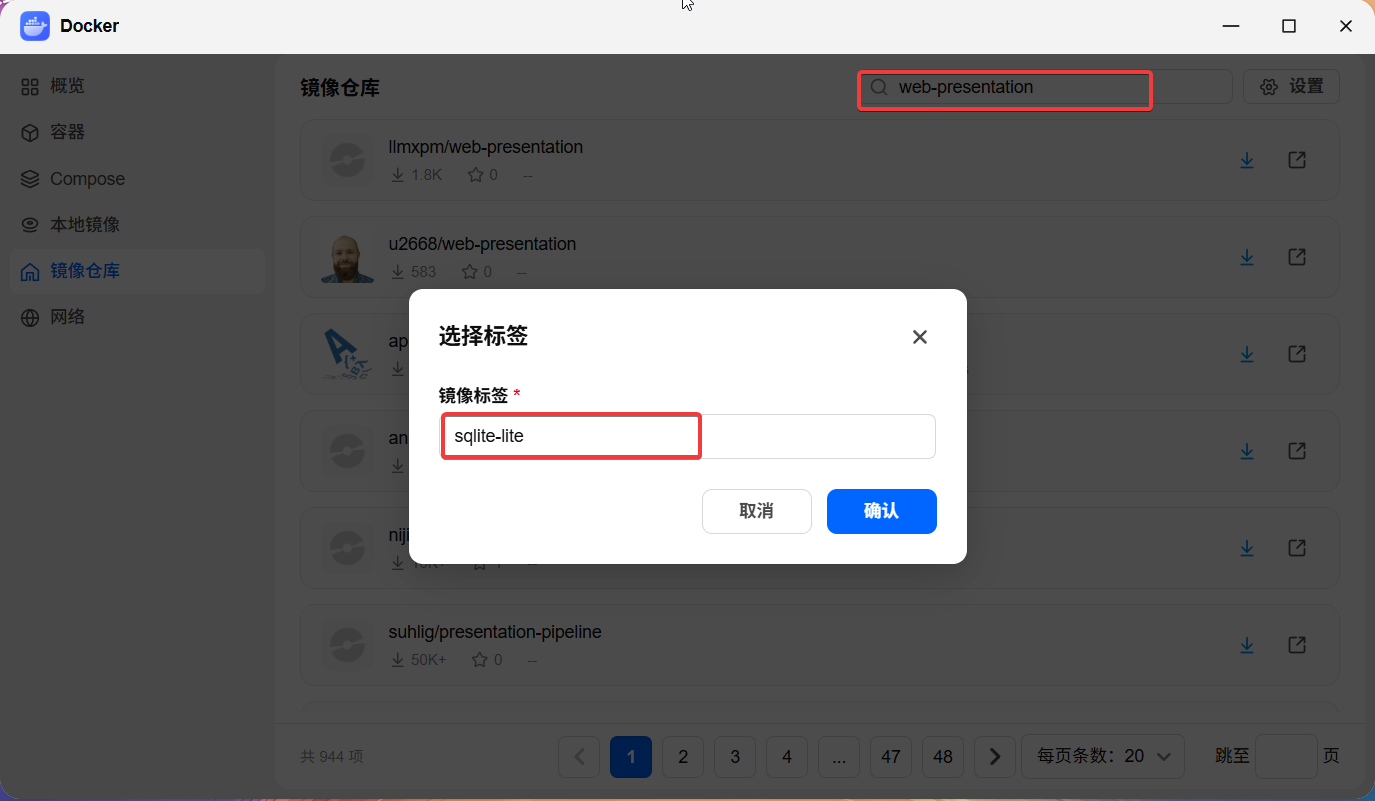
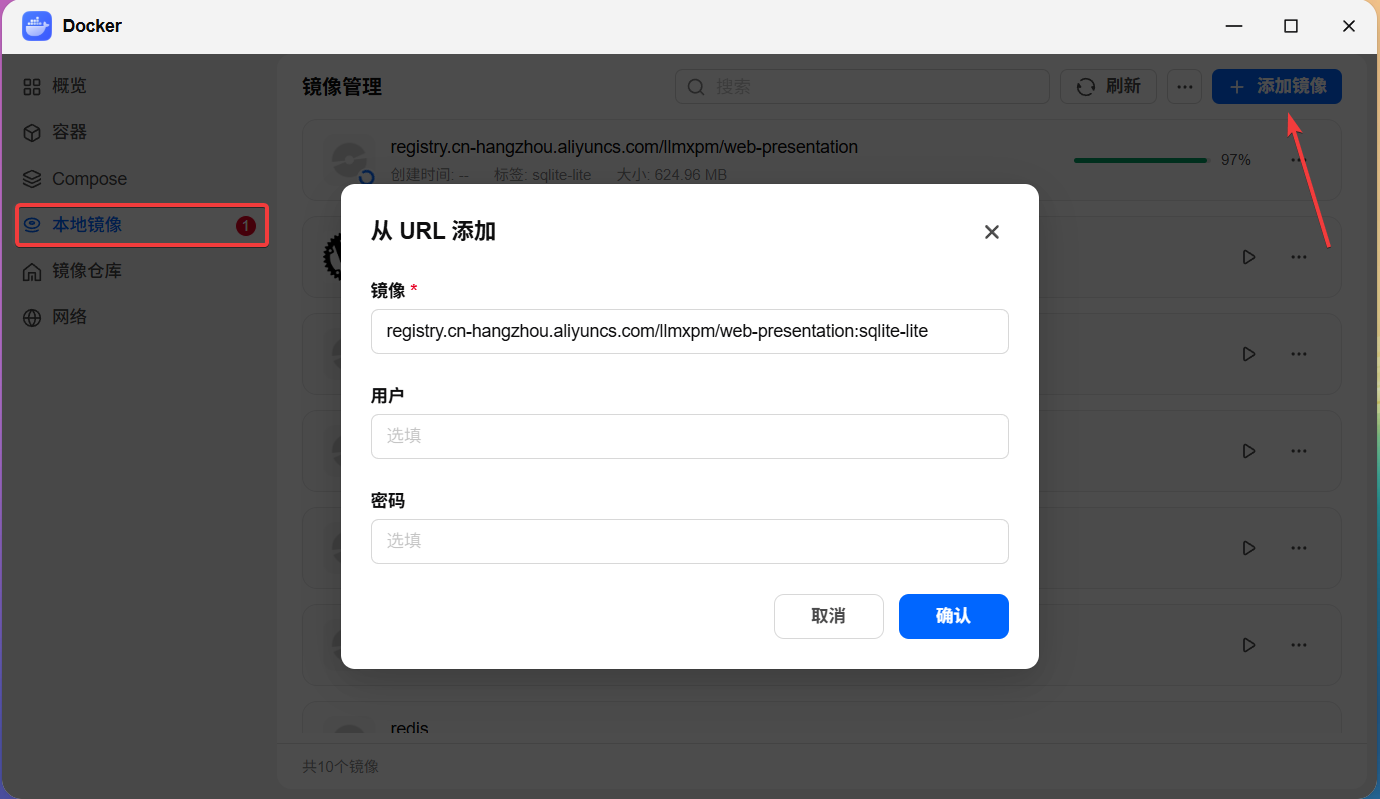
文档更新

diff --git a/README.md b/README.md
@@ -6,20 +6,26 @@
 
 ![平台产品总览图](./docs/assets/平台总览.png)
 
+## 平台演示
+
+[![播放 web-presentation 平台演示视频](./docs/assets/平台演示-封面.jpg)](./docs/assets/平台演示.mp4)
+
+点击封面或[直接打开演示视频](./docs/assets/平台演示.mp4)，观看从一句话描述到完整演示文稿的 AI 创作流程。
+
 ## 产品特点
 
 - **自定义风格**：可以配置 Logo、字体、配色、页面比例等多维度样式，实现组织、企业特定的风格和布局要求。
 - **风格稳定**：通过组件复用和样式约定，能够稳定输出固定风格的演示文稿。
 - **模型要求低**: 可自定义模型，deepseek-V4-flash级别的模型就能跑出可用效果，deepseek-V4-pro级别的模型即可跑出不错的效果。
-- **成本低廉**：10 页 PPT 可在 `1元` 内完成首版，精细调整通常也很难超过 `5元`。
+- **成本低廉**：10 页 PPT 可在 `1元` 内完成创作。
 
 ## 核心能力
 
 - **AI 原生创作**：页面内容以代码、结构化配置和工具调用契约表达，进入 LLM 更擅长理解、生成、修改和审查的领域。
-- **受控批量创作**：多页 AI 创建、修改、Runtime 校验和截图进入持久化队列，SQLite 轻量部署也能保持单资源槽位与可恢复进度。
+- **页面布局检测**：基于真实DOM，对超高、换行、堆叠等AI常见布局错误，提供自动检测工具，AI自主修复。
 - **资产抽象复用**：工作空间沉淀资源、组件、主题、样式和字体，支持 PPT、图文卡片、报告页、展示页等不同内容形态复用同一套基础资产。
 - **快速可视反馈**：Runtime 基于 Vue 与 Vite 加载页面、组件和配置包，为 Editor 提供 iframe 预览、截图预览、组件预览和构建能力。
-- **受限可视化编辑**：在页面渲染结果旁查看 Vue 容器层级，以表单方式修改静态文本、组件参数和受控 Tailwind 样式；修改先保留为本地草稿，保存后再生成页面版本并刷新画布。
+- **受限可视化编辑**：在页面渲染结果旁查看 Vue 容器层级，以表单方式修改静态文本、组件参数和受控 Tailwind 样式；
 - **上下文隔离与注入**：Backend 为 AI 构造当前项目、页面、组件和资源的必要上下文，让 AI 聚焦具体创作，不需要关心 Runtime 内部实现。
 - **隔离式视觉工具**：内容助手和资源助手通过无历史的单次图片理解工具与持久化图片生成任务处理视觉素材；内容模型只接收附件引用，生成结果自动进入工作空间资源库。
 - **平台化管理**：支持多用户、工作空间、项目、页面、组件、资源、主题、样式、AI 设置和构建产物的集中管理。

diff --git a/docs/developer/large-files.md b/docs/developer/large-files.md
@@ -1,0 +1,38 @@
+# 大文件与媒体资产管理
+
+仓库使用 Git LFS 管理视频、无损音频和设计源文件，避免大型二进制内容进入普通 Git 历史。具体扩展名以根目录 [`.gitattributes`](../../.gitattributes) 为准。
+
+## 首次准备
+
+安装 Git LFS 后，在仓库内执行：
+
+```powershell
+git lfs install
+git lfs pull
+```
+
+Git LFS 配置由 `.gitattributes` 自动生效。克隆仓库后执行 `git lfs pull`，可补齐尚未下载的媒体内容。
+
+## 添加与检查
+
+常见视频、无损音频和设计源文件可以正常使用 `git add`；Git 会在提交时保存 LFS 指针，并将文件内容交给 LFS 存储。提交前建议检查：
+
+```powershell
+git check-attr filter -- docs/assets/平台演示.mp4
+git lfs status
+```
+
+第一条命令应输出 `filter: lfs`。暂存后，`git lfs status` 应列出对应文件。
+
+对于 `.gitattributes` 尚未覆盖且大于 10 MiB 的二进制文件，应先评估是否确有入库必要；需要入库时，使用精确路径添加 LFS 规则：
+
+```powershell
+git lfs track "path/to/large-file.ext"
+git add .gitattributes "path/to/large-file.ext"
+```
+
+不要把依赖包、构建产物、缓存、临时导出文件或可重新生成的文件提交到仓库；此类内容应加入 `.gitignore` 或交由发布制品存储管理。
+
+## 调整已有文件
+
+不要直接对共享分支执行 `git lfs migrate import`，该命令会重写 Git 历史。历史文件需要迁移时，应先评估远端、分支和协作者影响，再在独立维护窗口执行并通知所有协作者重新同步。

diff --git a/docs/user/demo-guide.md b/docs/user/demo-guide.md
@@ -2,7 +2,7 @@
 
 ## 访问方式
 
-- Demo 地址：[http://115.29.212.196:8080/](http://115.29.212.196:8080/)
+- Demo 地址：[http://49.235.130.241/](http://49.235.130.241/)
 - 账号：`Demo`
 - 密码：`Demo123456`
 
@@ -21,9 +21,10 @@ Demo 环境用于功能体验，部署在海外轻量服务器上，访问速度
 
 ## AI 设置说明
 
-Demo 环境系统预置了部分模型，用于直接体验 AI 创作能力。预置额度有限，只有几元钱；如果额度用完，可能会出现 AI 调用失败、余额不足、限额或鉴权相关提示。
+Demo 环境系统预置了一个低档位token-plan，额度优先，如果额度用完，会提示模型服务繁忙：
+![模型服务繁忙](../assets/模型服务繁忙.png)
+如果遇到模型服务繁忙，需要在账号 AI 设置中配置自己的模型和 API Key：
 
-遇到预置额度不可用时，需要在账号 AI 设置中配置自己的模型和 API Key：
 
 ![AI 设置入口](../assets/ai设置入口.png)
 

diff --git a/AGENTS.md b/AGENTS.md
@@ -12,6 +12,7 @@
 - 前端使用 `pnpm` 管理依赖；Python 项目使用 `uv` 管理依赖，并使用 `venv` 管理虚拟环境。
 - 项目通常已经启动，不要反复启动服务；需要确认运行态时先查看现有进程、端口或文档说明。
 - 可能存在用户未提交改动；不要回滚、覆盖或格式化无关文件。
+- 视频、无损音频和设计源文件按根目录 `.gitattributes` 使用 Git LFS 管理；新增未覆盖且大于 10 MiB 的二进制文件时，先判断是否应入库，再补充精确 LFS 规则。不要提交依赖包、构建产物、缓存或可重新生成的大文件。
 
 ## 2. 仓库定位
 

diff --git a/docs/developer/README.md b/docs/developer/README.md
@@ -11,6 +11,7 @@
 | [模块边界](./architecture/module-boundaries.md) | Backend、Editor、Runtime、Infra 的修改边界 |
 | [测试文档入口](./testing/README.md) | 根仓、Backend、Editor、Runtime、契约和 E2E 测试入口 |
 | [部署文档入口](./deployment/README.md) | Compose 部署、环境变量、备份恢复、升级回滚和排障 |
+| [大文件与媒体资产管理](./large-files.md) | Git LFS 规则、媒体文件提交检查和历史迁移约束 |
 
 ## 分组导航
 

diff --git a/docs/user/quick-deployment/docker.md b/docs/user/quick-deployment/docker.md
@@ -9,7 +9,7 @@
 ```yaml
 services:
   platform-lite:
-    image: llmxpm/web-presentation:sqlite-lite
+    image: registry.cn-hangzhou.aliyuncs.com/llmxpm/web-presentation:sqlite-lite
     restart: unless-stopped
     environment:
       BACKEND_PUBLIC_BASE_URL: "http://127.0.0.1:8080"
